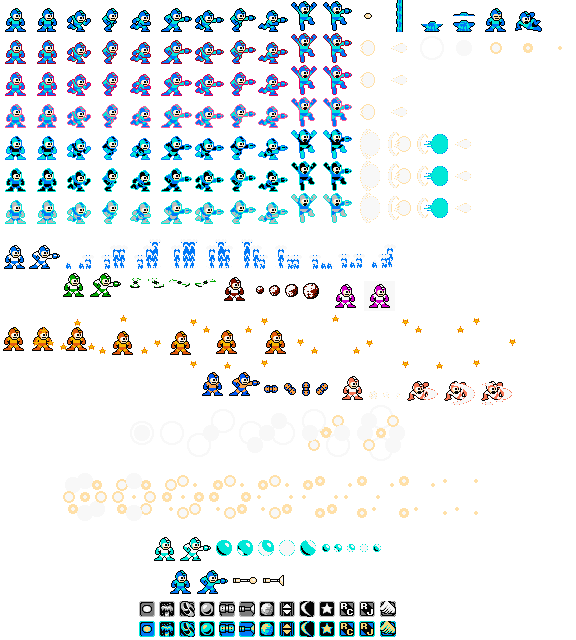
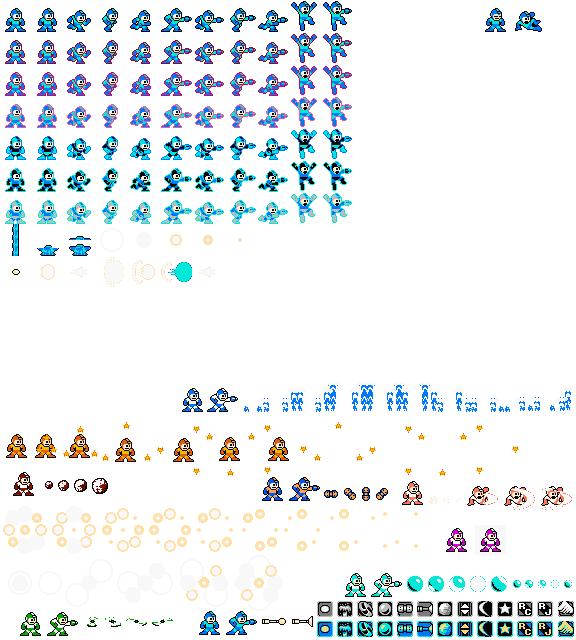
Move bullets, death particles, spawn, and death sprites below the Mega Man sprites in the sprite sheet and update the css.

diff --git a/assets/styles/bullet.css b/assets/styles/bullet.css
@@ -1,54 +1,54 @@
 .bullet {
-    --position: 0px;
-    --direction: 1;
+  --position: 0px;
+  --direction: 1;
 
-    /* Sprite Initialization */
-    width: 32px;
-    height: 32px;
-    background-image: url('../images/megaman-animations.png');
-    background-position: -352px 0;
-    background-repeat: no-repeat;
+  /* Sprite Initialization */
+  width: 32px;
+  height: 32px;
+  background-image: url("../images/megaman-animations.png");
+  background-position: 0px -256px;
+  background-repeat: no-repeat;
 
-    /* Position, Movement, and Scale */
-    position: absolute;
-    transform: translateX(var(--position)) scale(calc(var(--direction) * 4), 4);
-    transform-origin: center;
+  /* Position, Movement, and Scale */
+  position: absolute;
+  transform: translateX(var(--position)) scale(calc(var(--direction) * 4), 4);
+  transform-origin: center;
 }
 
 .bullet.low-charge {
-    animation: lowChargeBullet 0.25s steps(1, end) infinite;
-    animation-fill-mode: forwards;
+  animation: lowChargeBullet 0.25s steps(1, end) infinite;
+  animation-fill-mode: forwards;
 }
 
 @keyframes lowChargeBullet {
-    0% {
-        background-position: -352px -32px;
-    }
+  0% {
+    background-position: -32px -256px;
+  }
 
-    50% {
-        background-position: -384px -32px;
-    }
+  50% {
+    background-position: -64px -256px;
+  }
 }
 
 .bullet.max-charge {
-    animation: maxChargeBullet 0.25s steps(1, end) infinite;
-    animation-fill-mode: forwards;
+  animation: maxChargeBullet 0.25s steps(1, end) infinite;
+  animation-fill-mode: forwards;
 }
 
 @keyframes maxChargeBullet {
-    0% {
-        background-position: -352px -128px;
-    }
+  0% {
+    background-position: -96px -256px;
+  }
 
-    25% {
-        background-position: -384px -128px;
-    }
+  25% {
+    background-position: -128px -256px;
+  }
 
-    50% {
-        background-position: -416px -128px;
-    }
+  50% {
+    background-position: -160px -256px;
+  }
 
-    75% {
-        background-position: -448px -128px;
-    }
+  75% {
+    background-position: -192px -256px;
+  }
 }

diff --git a/assets/styles/death-particle.css b/assets/styles/death-particle.css
@@ -1,54 +1,54 @@
 .particle-container {
-    position: fixed;
-    top: 0;
-    left: 0;
-    width: 100vw;
-    height: 100vh;
-    overflow: hidden;
-    pointer-events: none;
-    z-index: 9999;
+  position: fixed;
+  top: 0;
+  left: 0;
+  width: 100vw;
+  height: 100vh;
+  overflow: hidden;
+  pointer-events: none;
+  z-index: 9999;
 }
 
 .death-particle {
-    --positionX: 0px;
-    --positionY: 0px;
+  --positionX: 0px;
+  --positionY: 0px;
 
-    /* Sprite Initialization */
-    width: 32px;
-    height: 32px;
-    background-image: url('../images/megaman-animations.png');
-    background-position: -416px -32px;
-    background-repeat: no-repeat;
+  /* Sprite Initialization */
+  width: 32px;
+  height: 32px;
+  background-image: url("../images/megaman-animations.png");
+  background-position: -96px -224px;
+  background-repeat: no-repeat;
 
-    /* Position, Movement, and Scale */
-    position: absolute;
-    transform: translate(var(--positionX), var(--positionY)) scale(4);
-    transform-origin: center;
+  /* Position, Movement, and Scale */
+  position: absolute;
+  transform: translate(var(--positionX), var(--positionY)) scale(4);
+  transform-origin: center;
 }
 
 .death-particle.spread {
-    animation: spread 0.25s steps(1, end) infinite;
-    animation-fill-mode: forwards;
+  animation: spread 0.25s steps(1, end) infinite;
+  animation-fill-mode: forwards;
 }
 
 @keyframes spread {
-    0% {
-        background-position: -416px -32px;
-    }
+  0% {
+    background-position: -96px -224px;
+  }
 
-    20% {
-        background-position: -448px -32px;
-    }
+  20% {
+    background-position: -128px -224px;
+  }
 
-    40% {
-        background-position: -480px -32px;
-    }
+  40% {
+    background-position: -160px -224px;
+  }
 
-    60% {
-        background-position: -512px -32px;
-    }
+  60% {
+    background-position: -192px -224px;
+  }
 
-    80% {
-        background-position: -544px -32px;
-    }
+  80% {
+    background-position: -224px -224px;
+  }
 }

diff --git a/assets/styles/mega-man.css b/assets/styles/mega-man.css
@@ -39,13 +39,13 @@
 /* Animation */
 
 .mega-man.spawn-animation-state {
-  background-position: -384px 0px;
+  background-position: -0px -224px;
   animation: spawnAnimation 0.1s steps(1, end) infinite;
 }
 
 @keyframes spawnAnimation {
   0% {
-    background-position: calc(-384px + (var(--spawn-state) * -32px)) 0px;
+    background-position: calc((var(--spawn-state) * -32px)) -224px;
   }
 }
 
